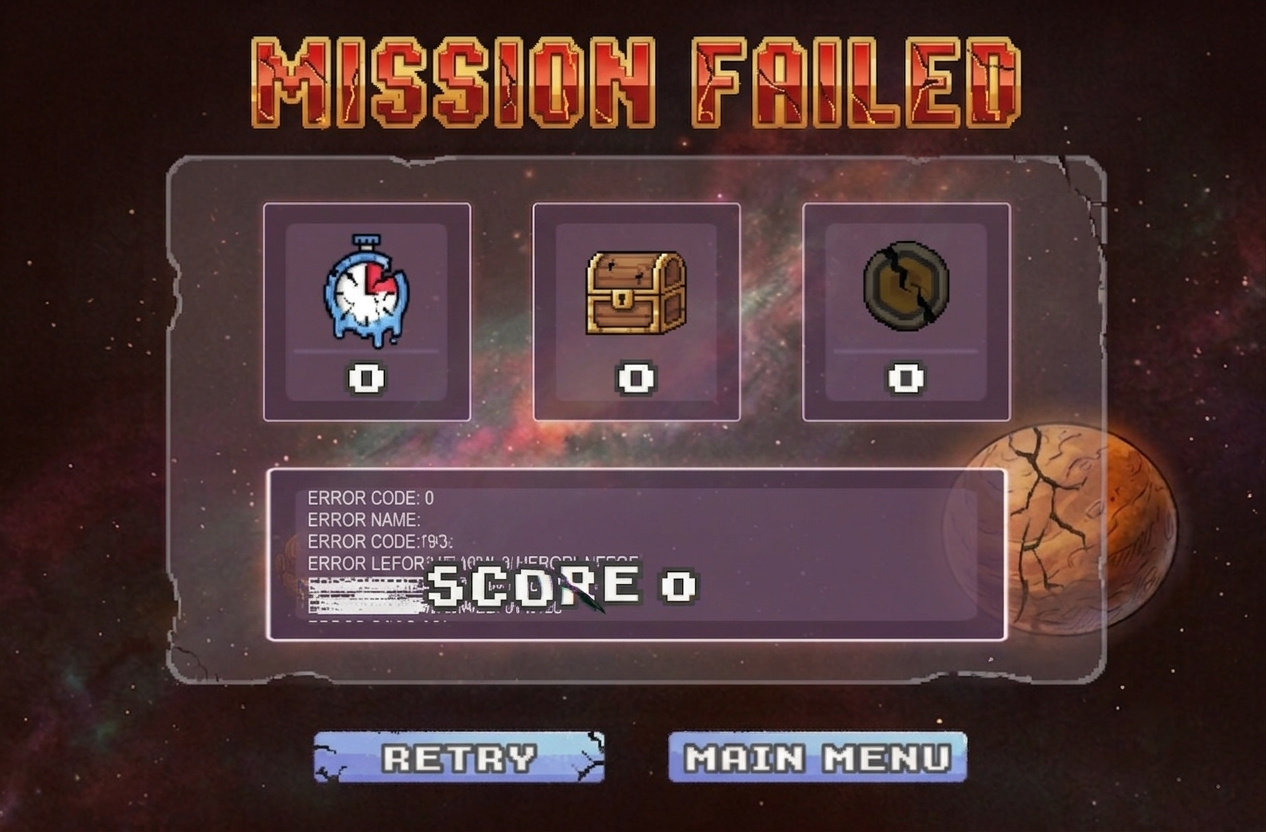
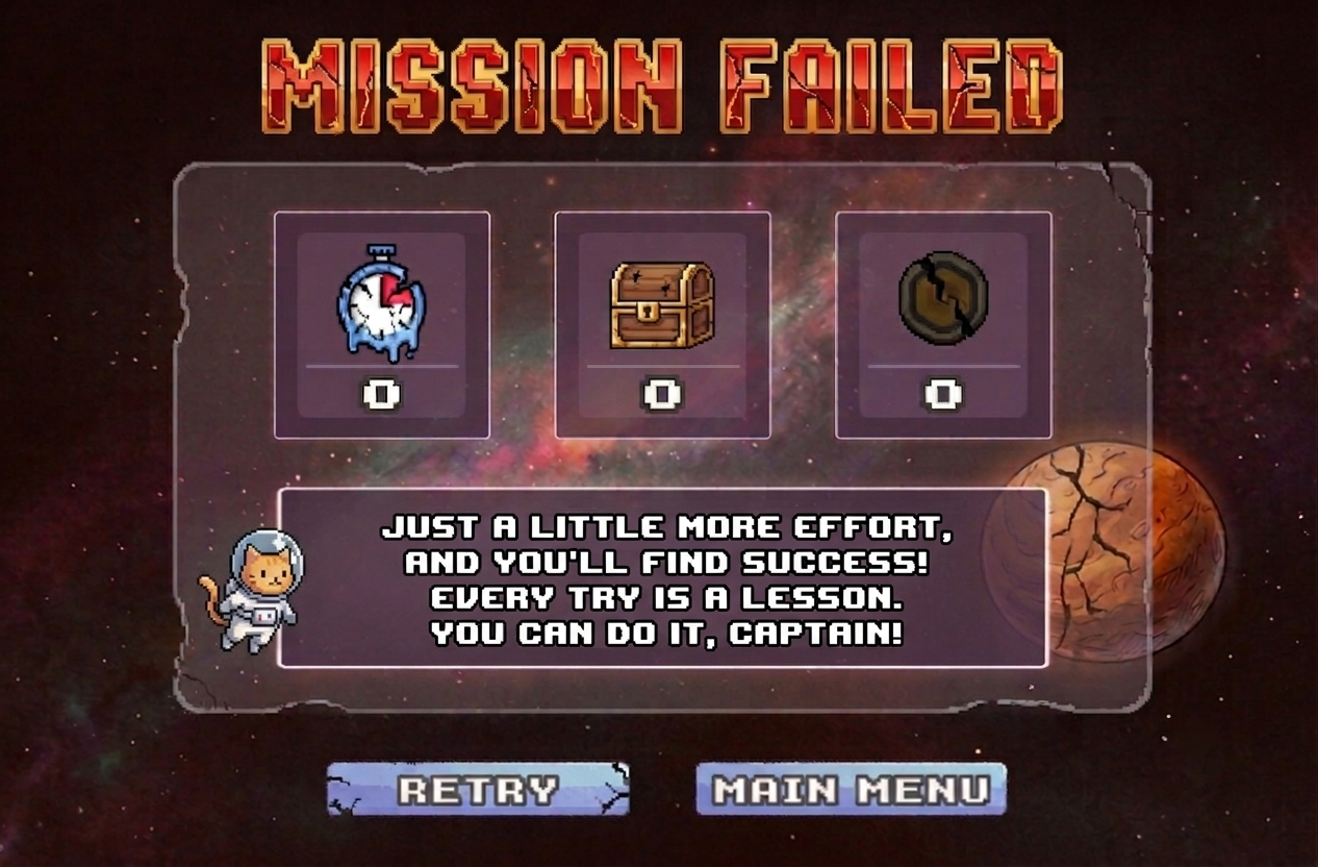
highquality

diff --git a/assets/scripts/gameflow/IntroCtrl.ts b/assets/scripts/gameflow/IntroCtrl.ts
@@ -13,6 +13,7 @@
  * └── Slide6  (cc.Sprite，顯示第 7 張分鏡圖)
  *
  * 每個 Slide 節點預設 active = false，由腳本控制顯示。
+ * 點擊螢幕換下一張，每張顯示時所有子 Label 會淡入。
  */
 import { AudioBroadcast } from "../Audio/AudioEvent";
 const { ccclass, property } = cc._decorator;
@@ -20,16 +21,18 @@ const { ccclass, property } = cc._decorator;
 @ccclass
 export default class IntroCtrl extends cc.Component {
 
-    /** 每張分鏡停留秒數，依序對應 Slide1～Slide6 */
-    @property([cc.Float])
-    slideDelays: number[] = [5, 5, 5, 5, 5, 5];
+    /** Label 淡入持續秒數 */
+    @property(cc.Float)
+    fadeDuration: number = 1.0;
 
     private slides: cc.Node[] = [];
     private currentIndex: number = 0;
+    private isTweening: boolean = false;
 
     start() {
         // 換BGM
         AudioBroadcast.playBgm("story_line_bgm");
+
         // 收集場景中所有 Slide 節點
         for (let i = 1; i <= 6; i++) {
             const node = cc.find("Canvas/Slide" + i);
@@ -47,7 +50,26 @@ export default class IntroCtrl extends cc.Component {
             return;
         }
 
+        // 監聽點擊事件（掛在 Canvas 上，全螢幕有效）
+        this.node.on(cc.Node.EventType.TOUCH_END, this.onTouchEnd, this);
+
         this.showSlide(0);
+    }
+
+    onDestroy() {
+        this.node.off(cc.Node.EventType.TOUCH_END, this.onTouchEnd, this);
+    }
+
+    private onTouchEnd() {
+        // 淡入動畫進行中不允許連點跳過
+        if (this.isTweening) return;
+
+        const next = this.currentIndex + 1;
+        if (next < this.slides.length) {
+            this.showSlide(next);
+        } else {
+            cc.director.loadScene("Tutorial");
+        }
     }
 
     private showSlide(index: number) {
@@ -56,15 +78,52 @@ export default class IntroCtrl extends cc.Component {
             s.active = (i === index);
         });
 
-        const delay = this.slideDelays[index] ?? 5;
+        this.currentIndex = index;
 
-        this.scheduleOnce(() => {
-            const next = index + 1;
-            if (next < this.slides.length) {
-                this.showSlide(next);
-            } else {
-                cc.director.loadScene("Tutorial");
-            }
-        }, delay);
+        // 對當前 Slide 下的所有 Label 執行淡入
+        this.fadeInLabels(this.slides[index]);
+    }
+
+    /**
+     * 找出節點樹中所有 cc.Label，將透明度從 0 淡入到原始值
+     */
+    private fadeInLabels(root: cc.Node) {
+        const labels = this.collectLabels(root);
+        if (labels.length === 0) return;
+
+        this.isTweening = true;
+
+        let completed = 0;
+
+        labels.forEach(label => {
+            const originalOpacity = label.opacity > 0 ? label.opacity : 255;
+            label.opacity = 0;
+
+            label.runAction(
+                cc.sequence(
+                    cc.fadeTo(this.fadeDuration, originalOpacity),
+                    cc.callFunc(() => {
+                        completed++;
+                        if (completed >= labels.length) {
+                            this.isTweening = false;
+                        }
+                    })
+                )
+            );
+        });
+    }
+
+    /**
+     * 遞迴收集節點樹下所有帶有 cc.Label 元件的節點
+     */
+    private collectLabels(node: cc.Node): cc.Node[] {
+        const result: cc.Node[] = [];
+        if (node.getComponent(cc.Label)) {
+            result.push(node);
+        }
+        node.children.forEach(child => {
+            result.push(...this.collectLabels(child));
+        });
+        return result;
     }
 }

diff --git a/assets/scripts/gameflow/GameData.ts b/assets/scripts/gameflow/GameData.ts
@@ -7,6 +7,7 @@ export default class GameData {
     public static levelTime:   number = 0;
     public static coins:       number = 0;
     public static partQualities: number[] = [-1, -1, -1];
+    public static highQualities: number[] = [-1, -1, -1];
     public static itemCount: number = 0;
     public static currentLevel: number = 1;
     public static isSolo: boolean = true;
@@ -34,6 +35,17 @@ export default class GameData {
             }
         }
         return score;
+    }
+
+    public static updateHighQuality(): number {
+        const index = GameData.currentLevel - 1;
+        const qual_now = GameData.partQualities[index];
+        const qual_high = GameData.highQualities[index];
+        if (index >= 0 && index < 3) {
+            if (qual_now > qual_high) {
+                GameData.highQualities[index] = qual_now;
+            }
+        }
     }
 
     public static reset() {

diff --git a/assets/scripts/ui/LevelResultCtrl.ts b/assets/scripts/ui/LevelResultCtrl.ts
@@ -21,6 +21,7 @@ export default class LevelResultCtrl extends cc.Component {
         AudioBroadcast.playBgm("inventory_bgm");
         const levelIndex = GameData.currentLevel - 1;
         const quality    = GameData.partQualities[levelIndex] ?? 0;
+        GameData.updateHighQuality();
 
         // 更新前先記住舊的最高分
         const prevBest  = GameData.bestScores[levelIndex];

diff --git a/assets/scripts/ui/InventoryCtrl.ts b/assets/scripts/ui/InventoryCtrl.ts
@@ -32,7 +32,7 @@ export default class InventoryCtrl extends cc.Component {
         const parts = [this.part1, this.part2, this.part3];
 
         for (let i = 0; i < 3; i++) {
-            const quality = GameData.partQualities[i];
+            const quality = GameData.highQualities[i];
             const sprite  = parts[i];
 
             if (!sprite) continue;
